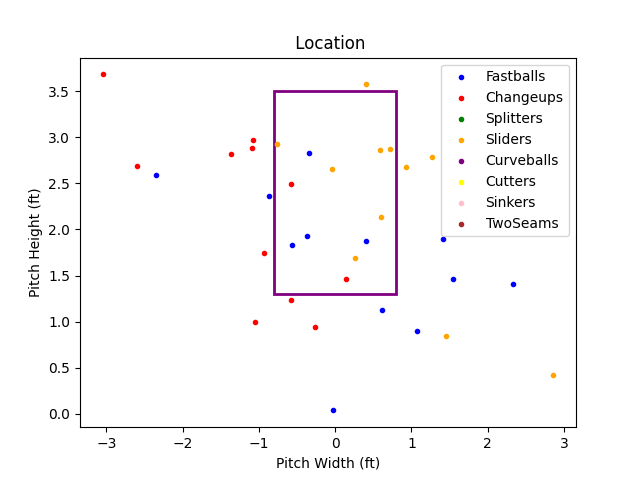
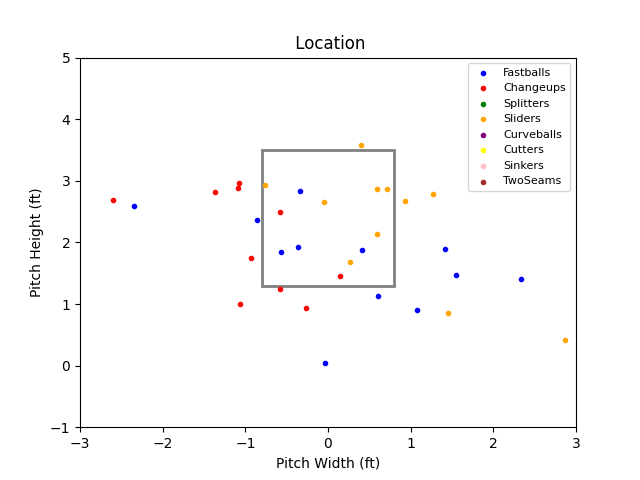
Plots Resized

diff --git a/filereader.py b/filereader.py
@@ -94,7 +94,7 @@ def pltPitches(Player):
         xCutt.append(float(pitch.plside))
         yCutt.append(float(pitch.plheight))
 
-  rect=mpatches.Rectangle((-.8,1.3),1.6,2.2, fill = False, color = "purple", linewidth = 2)    
+  rect=mpatches.Rectangle((-.8,1.3),1.6,2.2, fill = False, color = "gray", linewidth = 2)    
   plt.gca().add_patch(rect)
   plt.scatter(xFast, yFast, label= "Fastballs", c= "blue", marker= ".")
   plt.scatter(xChup, yChup, label= "Changeups", c= "red", marker= ".")
@@ -111,8 +111,9 @@ def pltPitches(Player):
 
   #ax.add_patch(Rectangle((1, 1), -1, 1, edgecolor = 'blue', facecolor = 'blue', fill=False, lw=5))
   plt.title(" Location")
-
-  plt.legend()
+  plt.xlim(-3, 3)
+  plt.ylim(-1, 5)
+  plt.legend(fontsize = "8")
   plt.show()
   plt.savefig((str(Player.name) + 'Pitches.png'))
   plt.clf()
